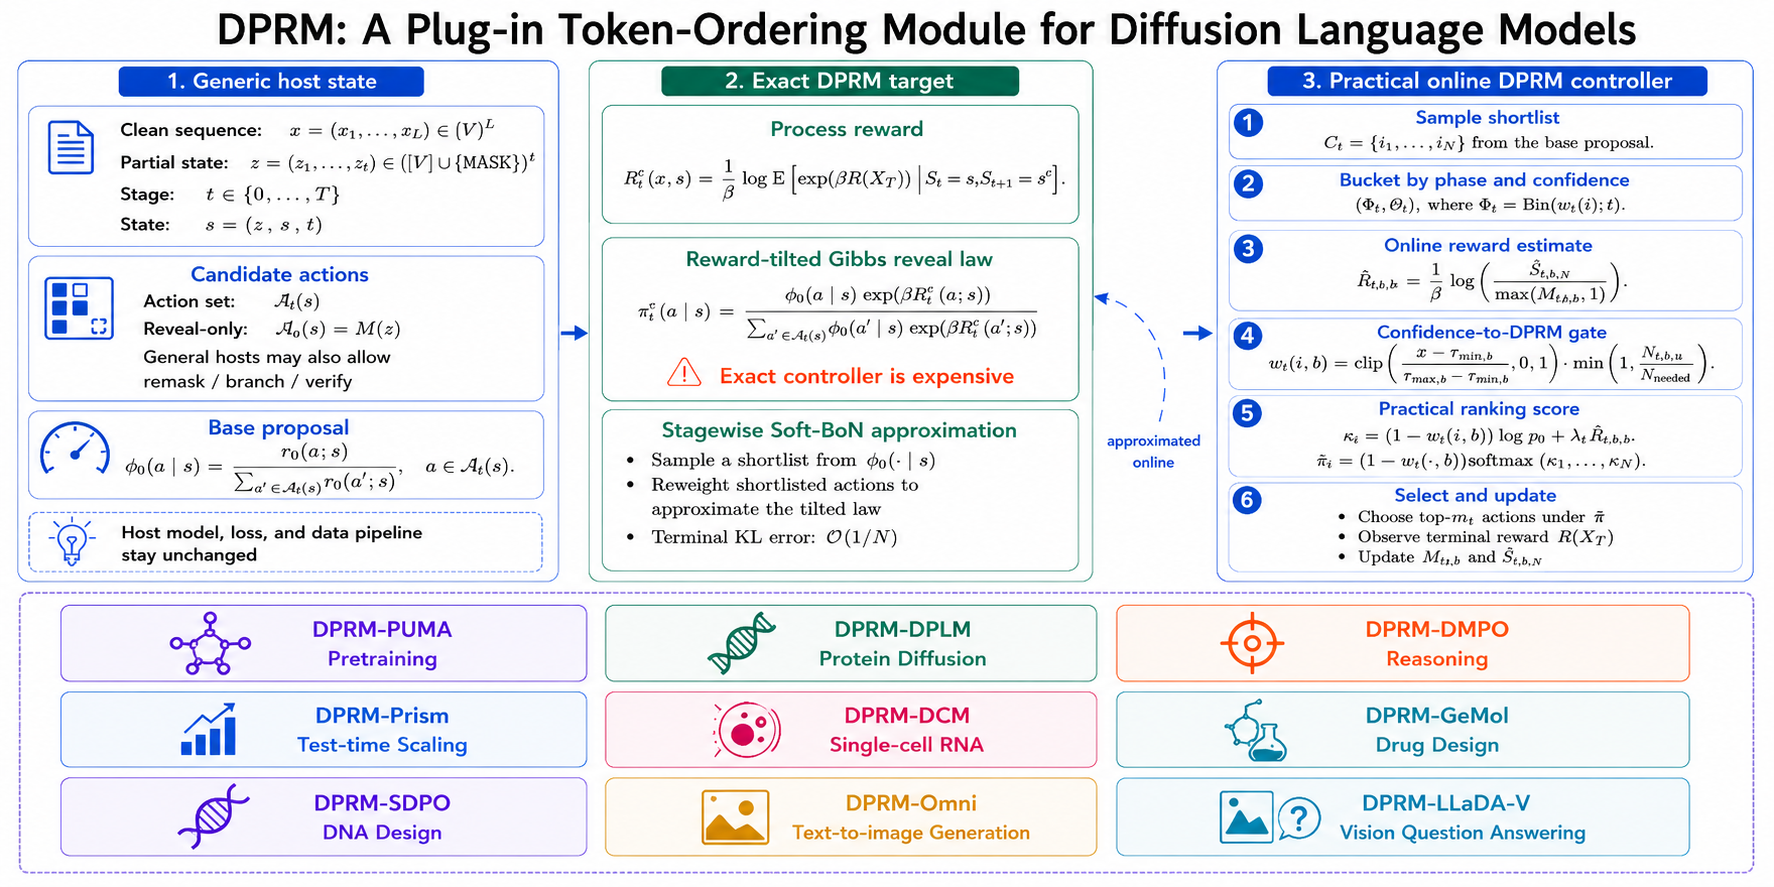
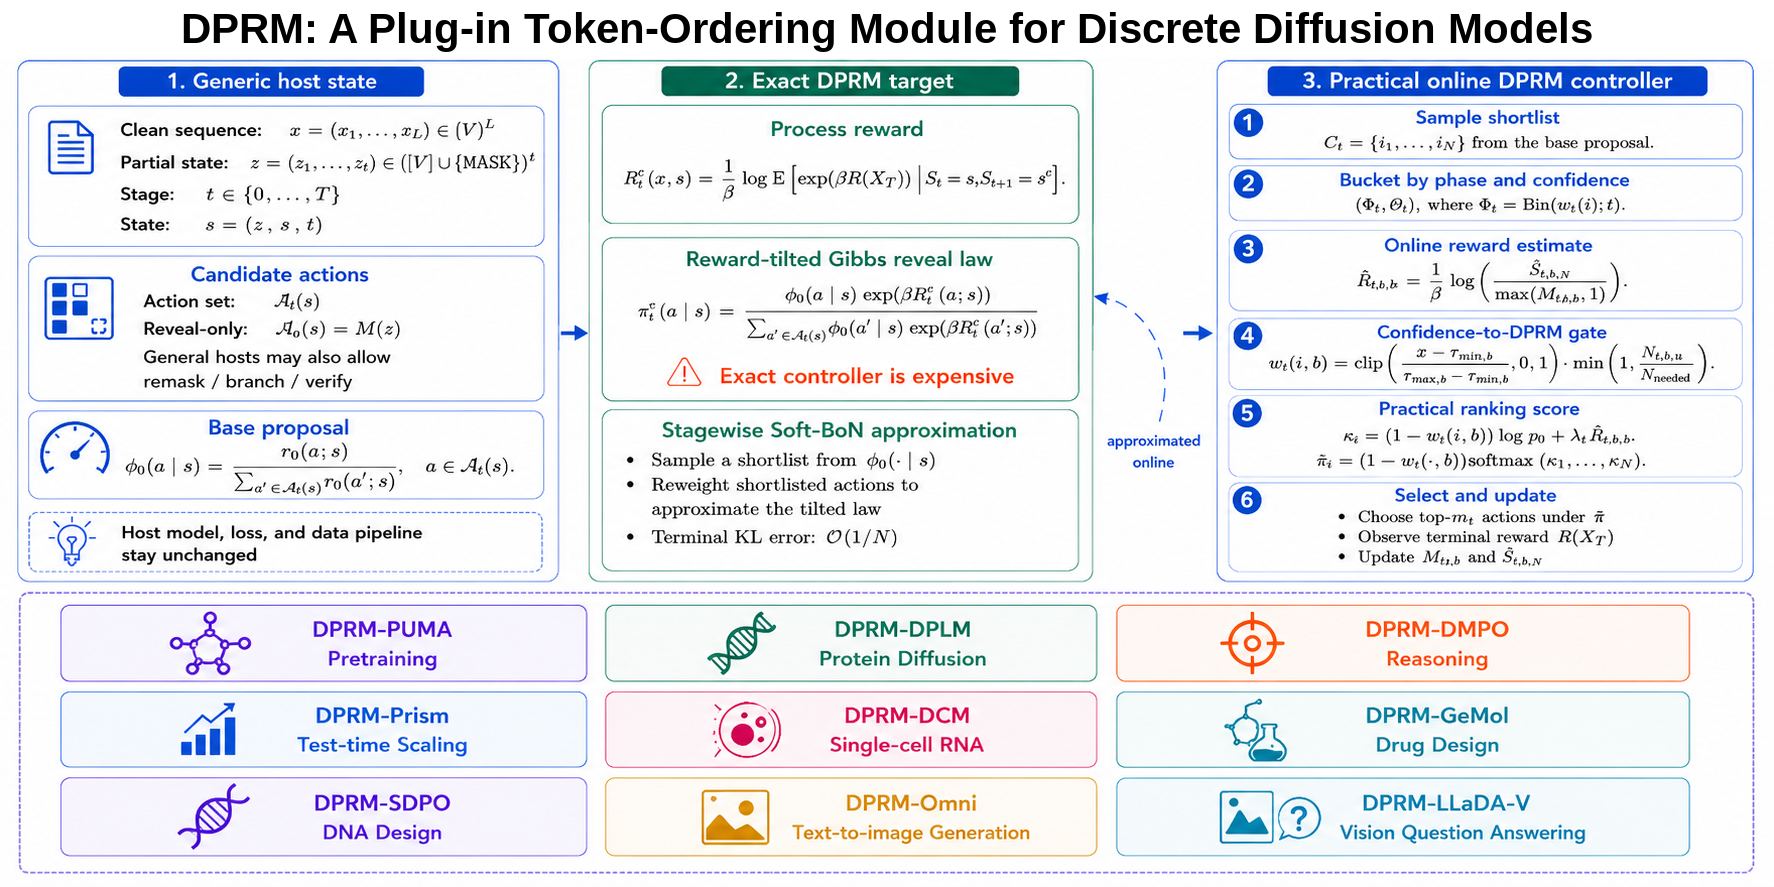
Release DPRM TPAMI code, results, and project page

Changed region(s): [[0.093, 0.0, 0.9301, 0.0609]]

diff --git a/docs/index.html b/docs/index.html
@@ -3,8 +3,8 @@
 <head>
   <meta charset="utf-8">
   <meta name="viewport" content="width=device-width, initial-scale=1">
-  <meta name="description" content="DPRM uses terminal utility to control token order in diffusion language models and masked discrete diffusion systems.">
-  <title>DPRM | Token Ordering for Diffusion Language Models</title>
+  <meta name="description" content="DPRM uses terminal utility to control token order in discrete diffusion models.">
+  <title>DPRM | Token Ordering for Discrete Diffusion Models</title>
   <link rel="preconnect" href="https://fonts.googleapis.com">
   <link rel="preconnect" href="https://fonts.gstatic.com" crossorigin>
   <link href="https://fonts.googleapis.com/css2?family=DM+Sans:wght@400;500;600;700&family=Source+Serif+4:opsz,wght@8..60,600;8..60,700&display=swap" rel="stylesheet">
@@ -31,7 +31,7 @@
       <div class="hero-copy">
         <p class="eyebrow">Process reward models for masked diffusion</p>
         <h1>DPRM</h1>
-        <p class="offer">A Plug-in Token-Ordering Module for Diffusion Language Models</p>
+        <p class="offer">A Plug-in Token-Ordering Module for Discrete Diffusion Models</p>
         <p class="authors">Dake Bu<sup>1,6</sup> · Wei Huang<sup>2,3</sup> · Andi Han<sup>4</sup> · Si Wu<sup>5</sup> · Hau-San Wong<sup>1,*</sup> · Qingfu Zhang<sup>1</sup> · Taiji Suzuki<sup>2,7</sup> · Atsushi Nitanda<sup>6,8,*</sup></p>
         <div class="affiliations" aria-label="Author affiliations">
           <span><sup>1</sup>City University of Hong Kong</span>
@@ -162,11 +162,11 @@
 
       <div class="host-panel" data-host-panel="scientific" hidden>
         <div class="result-table" role="table" aria-label="Scientific results">
-          <div class="result-row header" role="row"><span>Host</span><span>Rewarded objective</span><span>Confidence</span><span>DPRM</span></div>
+          <div class="result-row header" role="row"><span>Host</span><span>Rewarded objective</span><span>Matched reference</span><span>DPRM</span></div>
           <div class="result-row" role="row"><strong>DPLM-2 Bit</strong><span>Balanced score</span><span>0.7355</span><mark>0.7377</mark></div>
           <div class="result-row" role="row"><strong>DCM</strong><span>Nonzero recovery</span><span>0.0183</span><mark>0.0198</mark></div>
           <div class="result-row" role="row"><strong>GenMol V2</strong><span>QED</span><span>0.6392</span><mark>0.7350</mark></div>
-          <div class="result-row" role="row"><strong>SDPO-DNA</strong><span>Total utility</span><span>0.384</span><mark>2.119</mark></div>
+          <div class="result-row" role="row"><strong>SDPO-DNA</strong><span>Total utility, 3-seed mean</span><span>1.389</span><mark>2.129</mark></div>
         </div>
       </div>
     </section>
@@ -200,7 +200,7 @@
 
   <footer>
     <span>DPRM</span>
-    <span>A Plug-in Token-Ordering Module for Diffusion Language Models</span>
+    <span>A Plug-in Token-Ordering Module for Discrete Diffusion Models</span>
   </footer>
 </body>
 </html>

diff --git a/scripts/prepare_hf_release.py b/scripts/prepare_hf_release.py
@@ -40,7 +40,7 @@ tags:
 # DPRM Release Artifacts
 
 This bundle contains the retained DPRM states and raw evaluation records for
-**DPRM: A Plug-in Token-Ordering Module for Diffusion Language Models**.
+**DPRM: A Plug-in Token-Ordering Module for Discrete Diffusion Models**.
 The executable integrations, exact commands, and uncertainty reducers are in
 [DakeBU/DPRM-DLLM](https://github.com/DakeBU/DPRM-DLLM). The paper is available
 at [arXiv:2604.24357](https://arxiv.org/abs/2604.24357), and the scrollable

diff --git a/README.md b/README.md
@@ -1,4 +1,4 @@
-# DPRM: A Plug-in Token-Ordering Module for Diffusion Language Models
+# DPRM: A Plug-in Token-Ordering Module for Discrete Diffusion Models
 
 <p align="center">
   Dake Bu<sup>1,6</sup>, Wei Huang<sup>2,3</sup>, Andi Han<sup>4</sup>, Si Wu<sup>5</sup>,<br>
@@ -51,7 +51,7 @@ labels it simply as DPRM.
 | DPLM-2 Bit | CoGen balanced utility | 0.7355 | **0.7377** | **+0.3%** |
 | DCM | Nonzero recovery | 0.01826 | **0.01978** | **+8.3%** |
 | GenMol V2 | QED | 0.6392 | **0.7350** | **+15.0%** |
-| SDPO-DNA | Total utility | 1.141 | **2.119** | **+85.7%** |
+| SDPO-DNA | Total utility, 3-seed mean | 1.389 | **2.129** | **+53.3%** |
 
 Prism raises mean NFE from `609` to `1071`; it is a quality--compute result.
 Intervals, preference endpoints, and all retained per-example records are on the
@@ -231,7 +231,7 @@ scripts/              release verification and command launcher
 
 ```bibtex
 @article{bu2026dprm,
-  title   = {DPRM: A Plug-in Token-Ordering Module for Diffusion Language Models},
+  title   = {DPRM: A Plug-in Token-Ordering Module for Discrete Diffusion Models},
   author  = {Bu, Dake and Huang, Wei and Han, Andi and Wu, Si and Wong, Hau-San and Zhang, Qingfu and Suzuki, Taiji and Nitanda, Atsushi},
   journal = {arXiv preprint arXiv:2604.24357},
   year    = {2026}

diff --git a/integrations/llada_v/README.md b/integrations/llada_v/README.md
@@ -1,6 +1,6 @@
 # DPRM-LLaDA-V
 
-LLaDA-V conditions a diffusion language model on an encoded image. DPRM orders
+LLaDA-V conditions a discrete diffusion model on an encoded image. DPRM orders
 masked answer-token positions; token identities still come from the same
 image-conditioned logits. The bucket key contains decode phase, confidence,
 prompt-only answer format, candidate EOT status, and relative answer position.
